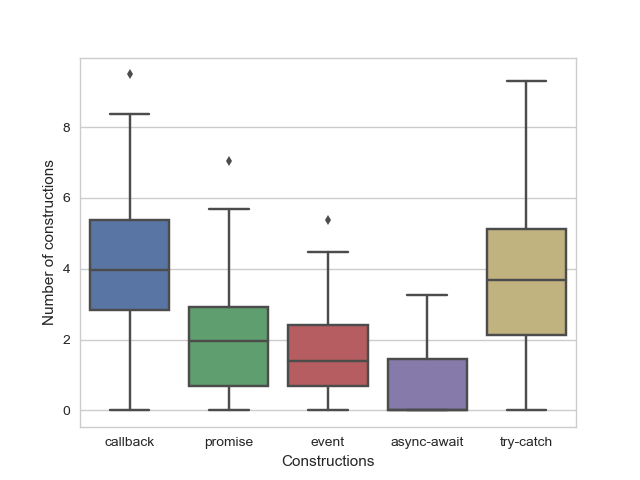
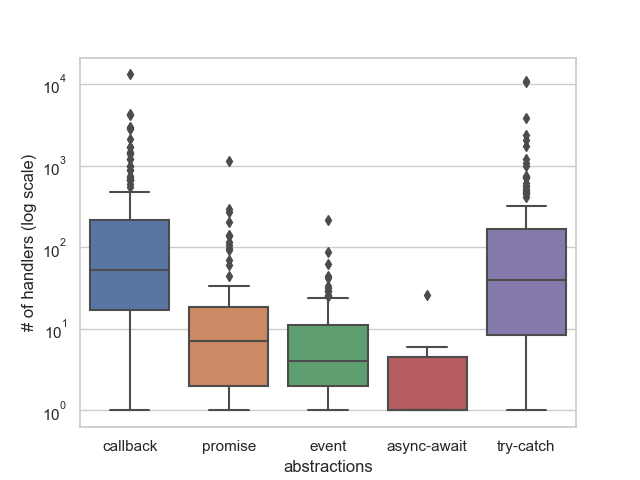
Update

diff --git a/extract-metrics/src/metrics/metrics-globaleventhandler.js b/extract-metrics/src/metrics/metrics-globaleventhandler.js
@@ -1,7 +1,8 @@
 const CONFIG = require("../../config");
+const constants = require('../constants')
 const utils = require(CONFIG["srcPath"] + 'utils');
 
-function handleAnalysis(node, reportObject) {
+function handleAnalysis(node, reportObject, metric_size_array) {
 
     if (node && node.type === 'AssignmentExpression') {
         const leftSideObject = node.left.object;
@@ -17,11 +18,14 @@ function handleAnalysis(node, reportObject) {
                     const numberOfLines = utils.getNumberOfLines(rightSideBlockStatement);
                     reportObject.numberOfWindowOnErrorLines += numberOfLines;
                     const errors = utils.getAllErrorArgs(utils.getIdentifiersNames(rightSide.params));
+                    const hasErrorArguments = errors.length !== 0;
 
-                    // empty handler
-                    // if (utils.isEmptyHandler(rightSideBlockStatement, errors, numberOfLines)) {
-                    //     reportObject.numberOfWindowOnErrorEmptyHandler++;
-                    // }
+                    metric_size_array.push({
+                        'mech': constants.WINDOW_ON_ERROR,
+                        'lines': numberOfLines,
+                        'stmts': rightSideBlockStatement.body.length,
+                        'has_error_arguments': hasErrorArguments
+                    });
 
                     // reasigning an error
                     if (utils.hasErrorReassignment(rightSideBlockStatement, errors)) {
@@ -93,6 +97,15 @@ function handleAnalysis(node, reportObject) {
                     const numberOfLines = utils.getNumberOfLines(rightSideBlockStatement);
                     reportObject.numberOfElementOnErrorLines += numberOfLines;
                     const errors = utils.getAllErrorArgs(utils.getIdentifiersNames(functionRightSide.params));
+
+                    const hasErrorArguments = errors.length !== 0;
+
+                    metric_size_array.push({
+                        'mech': constants.ELEMENT_ON_ERROR,
+                        'lines': numberOfLines,
+                        'stmts': rightSideBlockStatement.body.length,
+                        'has_error_arguments': hasErrorArguments
+                    });
 
                     // empty handler
                     if (numberOfLines === 0) {
@@ -168,12 +181,22 @@ function handleAnalysis(node, reportObject) {
 
             const arguments = node.arguments;
             const functionHandler = arguments[1];
+
             if (functionHandler && functionHandler.type === 'FunctionExpression') {
 
                 const functionBody = functionHandler.body;
                 const errors = utils.getAllErrorArgs(utils.getIdentifiersNames(functionHandler.params));
                 const numberOfLines = utils.getNumberOfLines(functionBody);
                 reportObject.numberOfWindowAddEventListenerLines += numberOfLines;
+
+                const hasErrorArguments = errors.length !== 0;
+
+                metric_size_array.push({
+                    'mech': constants.WINDOW_ADDEVENTLISTENER,
+                    'lines': numberOfLines,
+                    'stmts': functionBody.body.length,
+                    'has_error_arguments': hasErrorArguments
+                });
 
                 // reassigning an error
                 if (utils.hasErrorReassignment(functionBody, errors)) {

diff --git a/extract-metrics/src/metrics/metrics.js b/extract-metrics/src/metrics/metrics.js
@@ -187,24 +187,25 @@ function handleRecountingMech(handlers) {
     const callback_handlers = handlers.filter((handler) => {return handler.mech === constants.CALLBACK});
     const promise_handlers = handlers.filter((handler) => {return handler.mech === constants.PROMISE});
     const events_handlers = handlers.filter((handler) => {return handler.mech === constants.EVENT});
+    const global_events_handlers = handlers.filter((handler) => {
+        return  handler.mech === constants.WINDOW_ON_ERROR ||
+                handler.mech === constants.ELEMENT_ON_ERROR ||
+                handler.mech === constants.WINDOW_ADDEVENTLISTENER;
+
+    });
 
     const callback_handlers_without_promises = remove(callback_handlers, promise_handlers);
     const callback_handlers_without_events = remove(callback_handlers_without_promises[0], events_handlers);
+    const callbacks_handlers_without_global = remove(callback_handlers_without_events[0], global_events_handlers);
 
-    const callbacks = callback_handlers_without_events[0];
+    const callbacks = callbacks_handlers_without_global[0];
     const promises = callback_handlers_without_promises[1];
     const events = callback_handlers_without_events[1];
+    const global = callbacks_handlers_without_global[1];
 
-    const result_2 = callbacks.concat(promises.concat(events));
+    const result_2 = callbacks.concat(promises.concat(events.concat(global)));
 
     let result = result_1.concat(result_2);
-    result = result.map((handler) => {
-        if(handler.hasOwnProperty(constants.HAS_ERROR_ARGUMENTS)) {
-            delete handler[constants.HAS_ERROR_ARGUMENTS];
-        }
-        return handler;
-    });
-
     return result;
 
 }
@@ -264,7 +265,7 @@ function getMetrics(ast, filepath, reportObject) {
         estraverse.traverse(ast, {
             enter: function (node) {
                 strict_mode_module.handleAnalysis(node, reportObject);
-                global_event_handler_module.handleAnalysis(node, reportObject);
+                global_event_handler_module.handleAnalysis(node, reportObject, metric_size_array);
                 try_catch_module.handleAnalysis(node, reportObject, metric_size_array);
                 promise_module.handleAnalysis(node, reportObject, metric_size_array);
                 async_await_module.handleAnalysis(node, reportObject, metric_size_array);

diff --git a/extract-metrics/test/spec/metrics-size.spec.js b/extract-metrics/test/spec/metrics-size.spec.js
@@ -60,7 +60,7 @@ describe("Counting tests", function() {
         assert.equal(metricsObject.length, 2);
 
         const expected = [
-            { 'mech': 'promise', 'lines': 4, 'stmts': 4, 'file': filename },
+            { 'mech': 'promise', 'lines': 4, 'stmts': 4, 'has_error_arguments': false, 'file': filename },
             { 'mech': 'event', 'lines': 1, 'stmts': 1, 'file': filename }
         ];
 
@@ -80,11 +80,37 @@ describe("Counting tests", function() {
 
         const expected = [
             { 'mech': 'callback', 'lines': 1, 'stmts': 1, 'file': filename },
-            { 'mech': 'promise', 'lines': 4, 'stmts': 4, 'file': filename },
+            { 'mech': 'promise', 'lines': 4, 'stmts': 4, 'has_error_arguments': true, 'file': filename },
             { 'mech': 'event', 'lines': 1, 'stmts': 1, 'file': filename }
         ];
 
         assert.deepEqual(metricsObject, expected);
 
     });
+
+    it("assert5", function () {
+        const filename = suiteCasePath + 'assert5.js';
+
+        const saveObject = utilsModule.getMetricsOnFileObject();
+        const data = metricsModule.handleMetrics([filename], saveObject);
+        const metricsObject = data.metrics_handlers;
+
+        // console.log(metricsObject);
+
+        assert.notEqual(metricsObject, null);
+        assert.equal(metricsObject.length, 3);
+
+        const expected = [
+            { 'mech': constants.WINDOW_ADDEVENTLISTENER, 'lines': 7, 'stmts': 3, 
+                'has_error_arguments': true, 'file': filename },
+            { 'mech': constants.ELEMENT_ON_ERROR, 'lines': 1, 'stmts': 1, 
+                'has_error_arguments': true, 'file': filename },
+            { 'mech': constants.WINDOW_ON_ERROR, 'lines': 8, 'stmts': 5, 
+                'has_error_arguments': false, 'file': filename }
+        ];
+
+        assert.deepEqual(metricsObject, expected);
+
+    });
+
 });

diff --git a/extract-metrics/src/index.js b/extract-metrics/src/index.js
@@ -21,6 +21,9 @@ const resultServerDirectory = CONFIG['dataProjectPath'] + 'result/server/';
 const saveClientDirectory = CONFIG['saveMetricFilesPath'] + 'client/';
 const saveServerDirectory = CONFIG['saveMetricFilesPath'] + 'server/';
 
+const clientMetricSizeDirectory = CONFIG['dataProjectPath'] + 'result/metric-size/client/';
+const serverMetricSizeDirectory = CONFIG['dataProjectPath'] + 'result/metric-size/server/';
+
 const clientRepoFilepath = CONFIG['dataProjectPath'] + 'client.txt';
 const serverRepoFilepath = CONFIG['dataProjectPath'] + 'server.txt';
 
@@ -32,6 +35,7 @@ function main() {
     	repoDirectory: clientDirectory,
 		repoFilepath: clientRepoFilepath,
 		resultDirectory: resultClientDirectory,
+        metricSizeDirectory: clientMetricSizeDirectory,
 		failedFilepath: failedClientFilepath
     };
 
@@ -45,6 +49,7 @@ function main() {
     	repoDirectory: serverDirectory,
 		repoFilepath: serverRepoFilepath,
 		resultDirectory: resultServerDirectory,
+        metricSizeDirectory: serverMetricSizeDirectory,
 		failedFilepath: failedServerFilepath
     };
 
@@ -113,9 +118,9 @@ function extractMetricsFromFiles(repositoryName, saveObject, options, files, cal
     }
 
     if (metricsData.metrics_handlers) {
-        console.log(metrics_handlers);
-        const handlers_data = metricsData.metrics_handlers.join('\n');
-        // filesModule.appendDataToFile(options.failedFilepath, failedFilesData);
+        // console.log(metrics_handlers);
+        const handlersData = metricsData.metrics_handlers.join('\n');
+        filesModule.appendDataToFile(options.metricSizeDirectory, handlersData);
     }
 
     callback(null);

diff --git a/extract-metrics/test/data/metrics-size/assert5.js b/extract-metrics/test/data/metrics-size/assert5.js
@@ -1,0 +1,24 @@
+window.addEventListener("error", function (e) {
+    console.log();
+    if(true){
+        if(false){
+            throw 2;
+        }
+    }
+    console.log();
+});
+
+element.onerror = function (e) {
+    console.log(e.error.message, "from", e.error.stack);
+};
+
+window.onerror = function (message, file, line, column) {
+    var column = column || (window.event && window.event.errorCharacter);
+    var stack = [];
+    var f = arguments.callee.caller;
+    while (f) {
+        stack.push(f.name);
+        f = f.caller;
+    }
+    console.log(message, "from", stack);
+}

diff --git a/extract-metrics/src/metrics/metrics-promise.js b/extract-metrics/src/metrics/metrics-promise.js
@@ -40,7 +40,7 @@ function handleCatches(reportObject, node, metric_size_array) {
                 'lines': lines,
                 'stmts': functionBody.body.length,
                 'has_error_arguments': hasErrorArguments
-        });
+            });
 
 
             if(hasErrorArguments === 0) {

diff --git a/statistics/src/seaborn/dataset_seaborn.py b/statistics/src/seaborn/dataset_seaborn.py
@@ -117,12 +117,37 @@ def save_violinplot(df, image_path, xlabel, ylabel):
     # Present no lines in the grid
     sns.set(style='whitegrid')
 
+    # Apply log function to dataframe
+    df['values'] = df['values'].apply(np.log)
+
     # Create plot and set labels
-    g = sns.violinplot(x='types', y='values', data=df, cut=0)
+    g = sns.violinplot(x='types', y='values', data=df, cut=0, truncate=True)
     g.set(xlabel=xlabel, ylabel=ylabel)
 
     # Rescale y-axis to log function
-    g.set_yscale('log')
+    # g.set_yscale('log')
+
+    # Save figure
+    plt.savefig(image_path)
+
+
+def save_violinplot_hue(df, image_path, xlabel, ylabel):
+    # Start a new figure
+    plt.figure()
+
+    # Present no lines in the grid
+    sns.set(style='whitegrid')
+
+    # Apply log function to dataframe
+    df['values'] = df['values'].apply(np.log)
+
+    # Create plot and set labels
+    tips = sns.load_dataset('tips')
+    g = sns.violinplot(x='day', y='total_bill', hue='smoker', data=tips, palette='muted', split=True)
+    g.set(xlabel=xlabel, ylabel=ylabel)
+
+    # Rescale y-axis to log function
+    # g.set_yscale('log')
 
     # Save figure
     plt.savefig(image_path)
@@ -136,7 +161,7 @@ def save_lineplot(df, image_path, xlabel, ylabel):
     # Create plot and set labels
     # df = pd.DataFrame(dict(time=np.arange(500), value=np.random.randn(500).cumsum()))
     # sns.relplot(x='time', y='value', kind='line', data=df)
-    sns.relplot(x=xlabel, y=ylabel, kind='line', data=df)
+    sns.relplot(x=xlabel, y=ylabel, kind='line', estimator=None, data=df)
 
     # Set grid style
     sns.set(style='darkgrid')
@@ -184,5 +209,8 @@ save_boxplot(df_removed_outliers, image_path + 'boxplot-without-outliers.png', '
 save_violinplot(df, image_path + 'violinplot.png', 'abstractions', '# of handlers (log scale)')
 save_violinplot(df_removed_outliers, image_path + 'violinplot-without-outliers.png', 'abstractions', '# of handlers (log scale)')
 
+
+# df_handlers = get_handlers()
 save_lineplot(df, image_path + 'lineplot.png', 'types', 'values')
 
+save_violinplot_hue(df, image_path + 'violinplot-classes.png', '', '')
